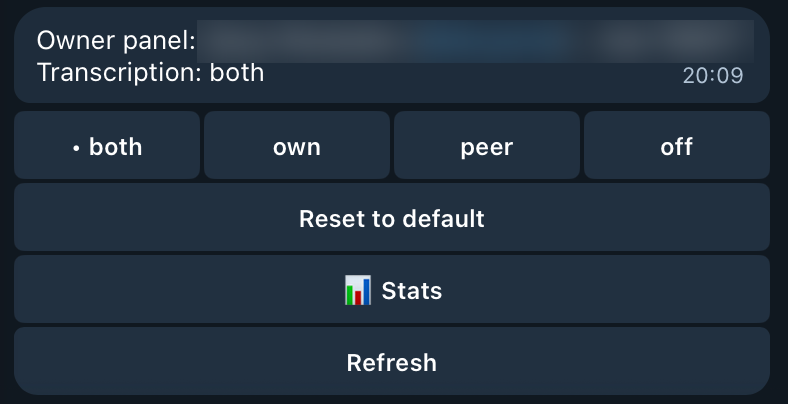
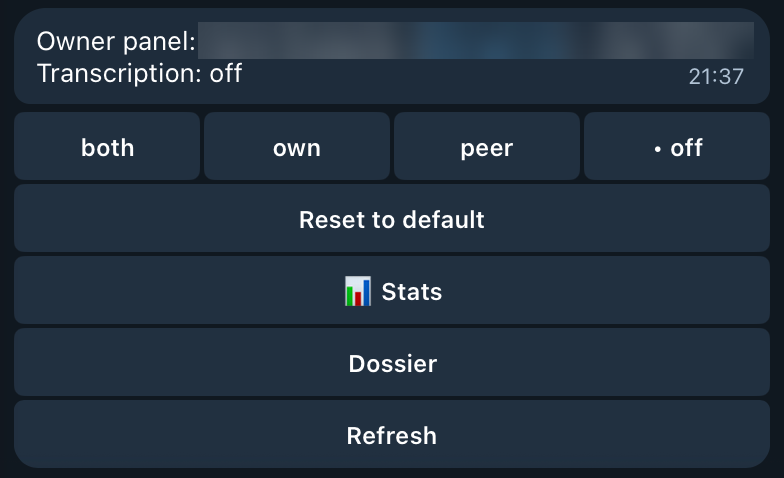
docs: real Telegram screenshots of the Dossier panel
Add the Dossier overview and a fact card to the README's dossier section,
and retake the owner panel screenshot so it shows the Dossier button.
Contact details, fact text, and quotes are blurred.

diff --git a/README.md b/README.md
@@ -47,7 +47,7 @@ Transcription: off
 [Refresh]
 ```
 
-![Real Telegram screenshot of the owner panel in the owner's private chat with the bot: Transcription: both, with mode buttons, Reset to default, Stats, and Refresh. The contact's name, username, and chat ID are blurred.](docs/images/owner-panel.png)
+![Real Telegram screenshot of the owner panel in the owner's private chat with the bot: Transcription: off, with mode buttons, Reset to default, Stats, Dossier, and Refresh. The contact's name, username, and chat ID are blurred.](docs/images/owner-panel.png)
 
 Tap a mode to set it, or Reset to return to the default; the panel message updates in place. The header always ends with `chat <id>`, so when you reply to a panel message to ask the agent about that chat, the reply names the chat. The panel speaks Russian when your Telegram app is set to Russian (`Панель владельца`, `Расшифровка: выкл`, mode buttons `все`, `мои`, `собеседника`, `выкл`) and English otherwise; modes are still stored as `both`, `own`, `peer`, and `off`. Only you see the panel: it lives in your private chat with the bot and the contact sees nothing. Only a verified owner gets the panel. Anyone else's `/start bizChat…` is treated as an ordinary message, and a panel button pressed by anyone else gets a short "Not allowed" alert.
 
@@ -129,6 +129,10 @@ hermes telesec dossier correct --contact @alice --fact f3 --text "Prefers calls 
 ```
 
 In Telegram, the panel's **Dossier** section shows the chat's dossier as a rich message in your app's language (Russian or English), with pin, unpin, remove, and refresh buttons; the persona and the on/off switch are there too. Sending exactly `/dossier` in a private Business chat, as the owner, deletes the command and posts that contact's dossier into the chat (Telegram allows this only if the contact wrote in the last 24 hours), without owner notes and without quotes or current text of deleted or edited messages (fact texts can still reflect such a message; see [docs/DOSSIERS.md](docs/DOSSIERS.md#dossier-in-a-chat)). Unlike the owner panel, `/dossier` is deliberately visible to the contact: its purpose is to show them their dossier. When there is nothing to post, the bot tells you why in your private chat with it instead.
+
+![Real Telegram screenshot of the Dossier overview in the owner panel: when the dossier was updated, coverage, model, fact counts, the Relationship and Shared facts sections, the mark legend, and Manage facts, Refresh, My persona, Disable, and Back buttons. The contact's username is blurred.](docs/images/dossier-panel.png)
+
+![Real Telegram screenshot of a fact card in the owner panel: the fact's section and kind, revisions, and its source message with date, sender, and quote, with Pin, Remove, Facts, and Back buttons. The contact's username, the fact text, the message ID, and the quote are blurred.](docs/images/dossier-fact.png)
 
 Enabling dossiers sends private chat text to the configured model provider; history capture alone never does. Nothing reaches a contact unless you send `/dossier`. [Dossiers, Telegram views, privacy, and a synthetic example](docs/DOSSIERS.md).
 

diff --git a/docs/VERIFY.md b/docs/VERIFY.md
@@ -157,7 +157,9 @@ Keep evidence free of real contact details and message content. Record Hermes/PT
 
 ## Documentation images
 
-`voice-transcript.png`, `owner-panel.png`, and `stats-panel.png` are real Telegram for macOS screenshots from the production gateway on 2026-10-19 (code identical to 0.10.0). The voice note was a synthetic 10-second English recording sent by the owner in a controlled Business chat. Its transcript was added to the caption about 4 seconds later. The panel and Stats view were opened from the owner's private chat with the bot. Contact names, usernames, and chat IDs are blurred. Afterwards the chat's mode was set back to `off`, and the test voice and panel messages were deleted. `banner.png` (1200x600) is rendered from `docs/images/src/banner.html` and uses the voice screenshot.
+`voice-transcript.png` and `stats-panel.png` are real Telegram for macOS screenshots from the production gateway on 2026-10-19 (code identical to 0.10.0). The voice note was a synthetic 10-second English recording sent by the owner in a controlled Business chat. Its transcript was added to the caption about 4 seconds later. The Stats view was opened from the owner's private chat with the bot. Contact names, usernames, and chat IDs are blurred. Afterwards the chat's mode was set back to `off`, and the test voice and panel messages were deleted. `banner.png` (1200x600) is rendered from `docs/images/src/banner.html` and uses the voice screenshot.
+
+`owner-panel.png`, `dossier-panel.png`, and `dossier-fact.png` are real Telegram for macOS screenshots from the production gateway on 2026-10-19 running 0.11.0. The panel, its Dossier overview, and one fact card were opened from the owner's private chat with the bot for a controlled Business chat whose dossier was built from real messages. The contact's name, username, chat and message IDs, the fact text, and the source quote are blurred; headings, counts, and buttons are not. `/dossier` was not sent in the Business chat, and the panel messages were deleted afterwards.
 
 The transcript illustration depicts implemented delivery shapes. The history image contains actual CLI output captured from synthetic Business updates. The assistant illustration is explicitly a future-design concept. All use fictional content and have editable HTML sources in `docs/images/src/`.
 
